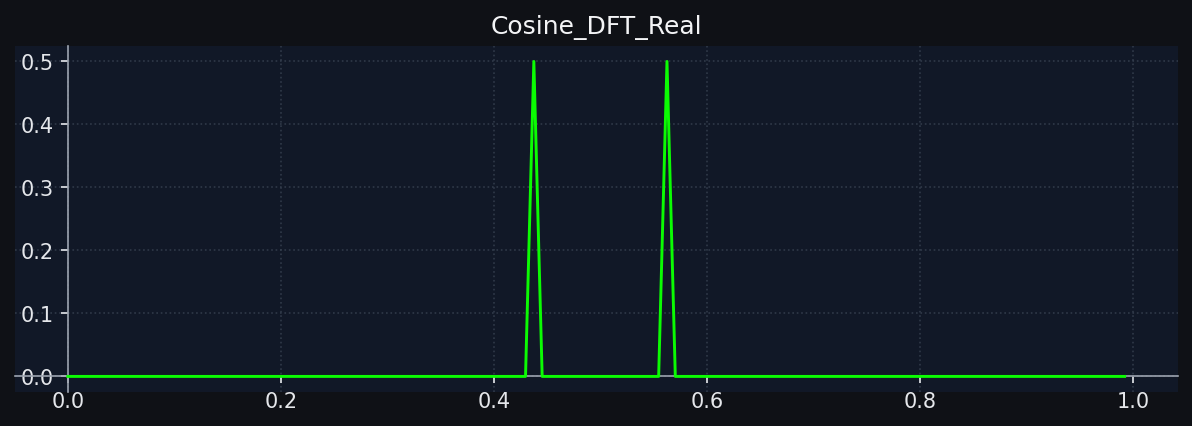
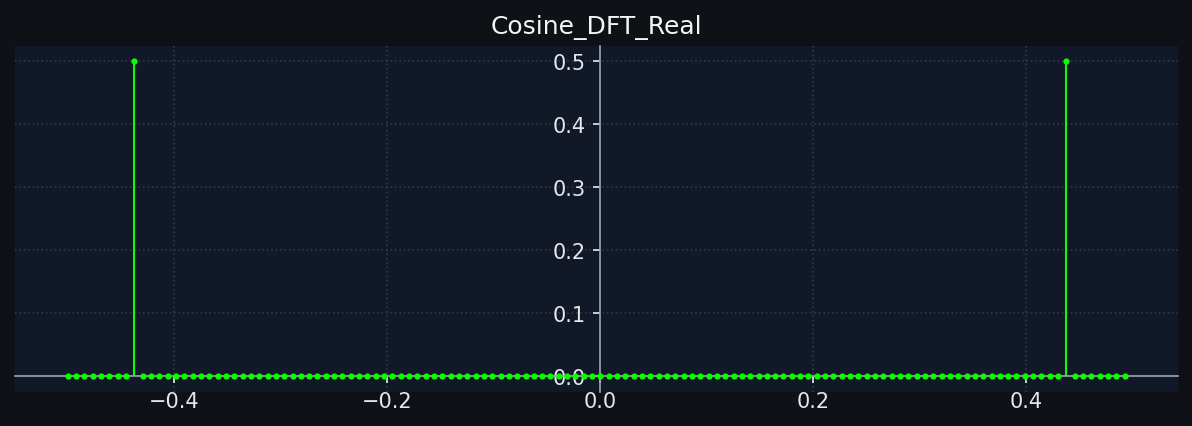
Still trying to figure out cosine. Need to push so i have access on laptop

diff --git a/experiment_2.py b/experiment_2.py
@@ -1,5 +1,5 @@
 import numpy as np
-from helpers import fft2D, generate_img, magnitude_2D, scale_magnitude, mapValues
+from helpers import fft2D, generate_img, magnitude_2D, scale_magnitude, mapValues, center_spectrum_2D
 import cv2
 import os
 
@@ -55,4 +55,27 @@ cv2.imwrite(os.path.join(outfile_path, '2a_mag_unshifted.jpg'), img_2a_fft_mag_s
 cv2.imwrite(os.path.join(outfile_path, '2b_mag_unshifted.jpg'), img_2b_fft_mag_scaled)
 cv2.imwrite(os.path.join(outfile_path, '2c_mag_unshifted.jpg'), img_2c_fft_mag_scaled)
 
+#calculate shifted imgs
+img_2a_centered = center_spectrum_2D(img_2a.astype(float))
+img_2b_centered = center_spectrum_2D(img_2b.astype(float))
+img_2c_centered = center_spectrum_2D(img_2c.astype(float))
+
+#calculate shifted ffts
+img_2a_centered_fft = fft2D(img_2a_centered, -1)
+img_2b_centered_fft = fft2D(img_2b_centered, -1)
+img_2c_centered_fft = fft2D(img_2c_centered, -1)
+
 #calculate shifted magnitudes
+img_2a_centered_fft_mag = magnitude_2D(img_2a_centered_fft)
+img_2b_centered_fft_mag = magnitude_2D(img_2b_centered_fft)
+img_2c_centered_fft_mag = magnitude_2D(img_2c_centered_fft)
+
+#scale shifted magnitudes
+img_2a_centered_fft_mag_scaled = mapValues(scale_magnitude(img_2a_centered_fft_mag))
+img_2b_centered_fft_mag_scaled = mapValues(scale_magnitude(img_2b_centered_fft_mag))
+img_2c_centered_fft_mag_scaled = mapValues(scale_magnitude(img_2c_centered_fft_mag))
+
+#visualize shifted magnitudes unshifted
+cv2.imwrite(os.path.join(outfile_path, '2a_mag_shifted.jpg'), img_2a_centered_fft_mag_scaled)
+cv2.imwrite(os.path.join(outfile_path, '2b_mag_shifted.jpg'), img_2b_centered_fft_mag_scaled)
+cv2.imwrite(os.path.join(outfile_path, '2c_mag_shifted.jpg'), img_2c_centered_fft_mag_scaled)

diff --git a/helpers.py b/helpers.py
@@ -24,21 +24,6 @@ def magnitude_2D(dft2D: np.ndarray):
 
     return mag_array
 
-# def magnitude_2D(dft2D: np.ndarray):
-#     mag_list = []
-#     for row in range(dft2D.shape[0]):
-#         mag_row = []
-#         for col in range(dft2D.shape[1]):
-#             real = dft2D[row, col].real
-#             imag = dft2D[row, col].imag
-#             mag = math.sqrt(real**2+imag**2)
-#             mag_row.append(mag)
-
-#         mag_list.append(mag_row)
-
-
-#     return np.array(mag_list, dtype=np.uint8)
-
 def scale_magnitude(dft_mag: np.ndarray):
     scaled_mag = np.zeros_like(dft_mag)
     for row in range(dft_mag.shape[0]):
@@ -62,6 +47,14 @@ def center_spectrum(signal: np.ndarray):
     centered_signal = np.empty_like(signal)
     for x in range(signal.size):
         centered_signal[x] = ((-1)**x)*signal[x]
+
+    return centered_signal
+
+def center_spectrum_2D(signal: np.ndarray):
+    centered_signal = np.empty_like(signal)
+    for row in range(signal.shape[0]):
+        for col in range(signal.shape[1]):
+            centered_signal[row, col] = ((-1)**(row+col))*signal[row, col]
 
     return centered_signal
 

diff --git a/experiment_1.py b/experiment_1.py
@@ -56,16 +56,16 @@ cos_mag = magnitude(cos_dft)
 cos_phase = phase(cos_dft)
 
 #plot real
-create_figure('Cosine_DFT_Real', sample_points, cos_dft.real, outfile_path, False)
+create_figure('Cosine_DFT_Real', cos_dft_freq, cos_dft.real, outfile_path, True)
 
-#plot imaginary
-create_figure('Cosine_DFT_Imaginary', sample_points, cos_dft.imag, outfile_path, False)
+#plot imaginary 
+create_figure('Cosine_DFT_Imaginary', cos_dft_freq, cos_dft.imag, outfile_path, True)
 
 #plot mag
-create_figure('Cosine_DFT_Mag', sample_points, cos_mag, outfile_path, True)
+create_figure('Cosine_DFT_Mag', cos_dft_freq, cos_mag, outfile_path, True)
 
 #plot phase
-create_figure('Cosine_DFT_Phase', sample_points, cos_phase, outfile_path, False)
+create_figure('Cosine_DFT_Phase', cos_dft_freq, cos_phase, outfile_path, False)
 
 
 
